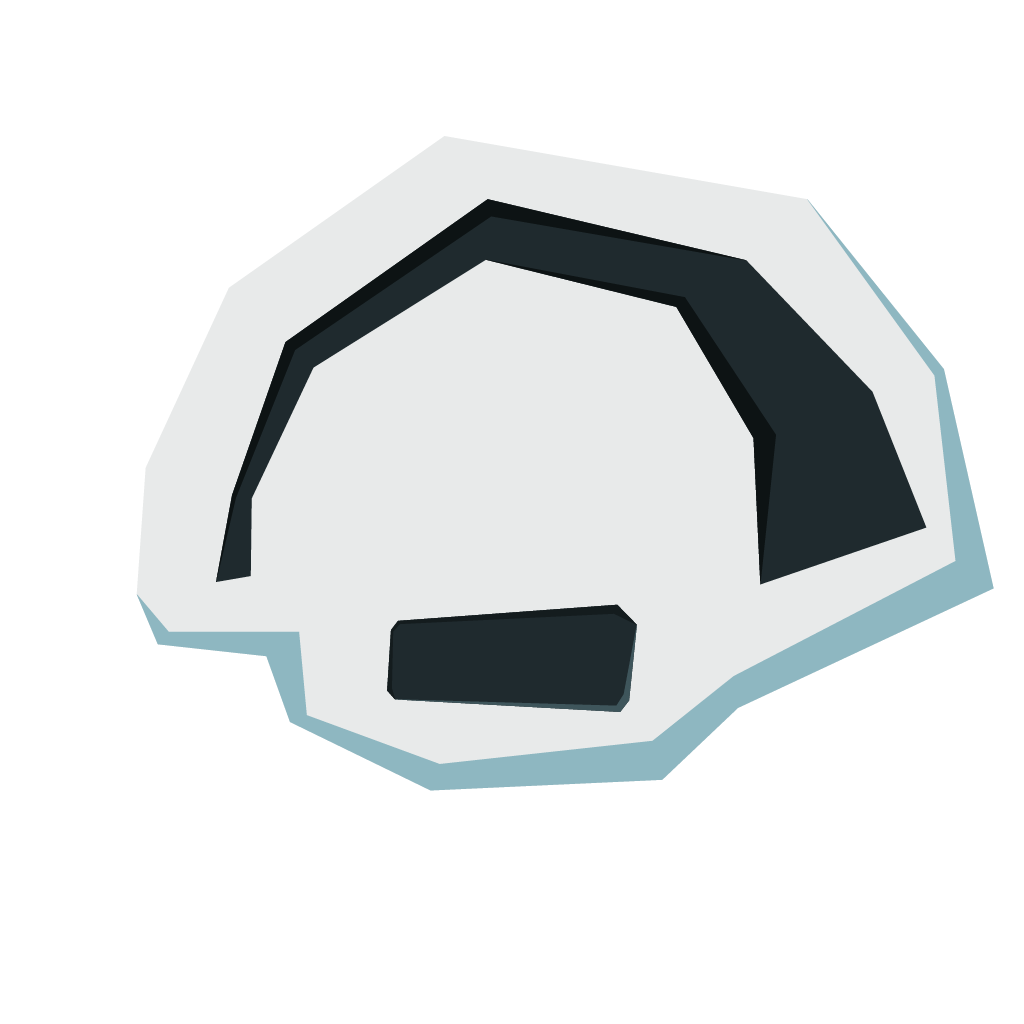
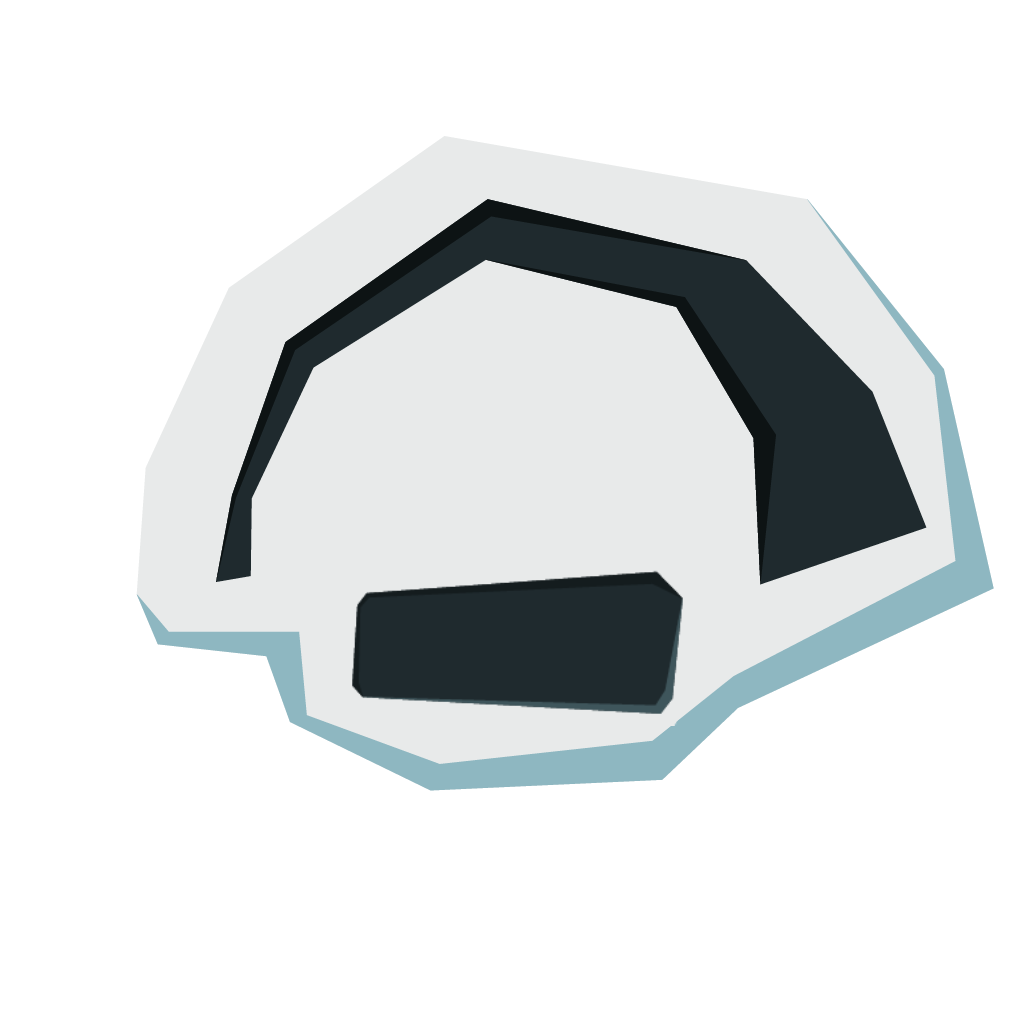
Increased textbox size for perfect percent instead of making the font size smaller.

Changed region(s): [[0.3438, 0.5625, 0.6875, 0.7188]]

diff --git a/public/renderer.js b/public/renderer.js
@@ -91,12 +91,11 @@ var updateCurrentPerfectMedian = function() {
     var percent = Math.round(currentPerfect / (currentHits+currentMissed) * 100);
   }
   if (isNaN(percent)) {
-    percent = 100;
+    percent = 0;
   }
   
   if (enableAccuratePerfectPercent) {
     document.getElementById("perfectPercent").innerHTML = percent.toFixed(2)+"%";
-    document.getElementById("perfectPercent").style = 'font-size: 0.7em; top: 62%;';
   } else {
     document.getElementById("perfectPercent").innerHTML = percent+"%";
   }

diff --git a/public/style.css b/public/style.css
@@ -233,7 +233,7 @@ body, html {
 #perfectPercent {
   left: 0;
   right: 0;
-  top: 60%;
+  top: 59%;
   position: absolute;
   color: #fecb17;
 }
